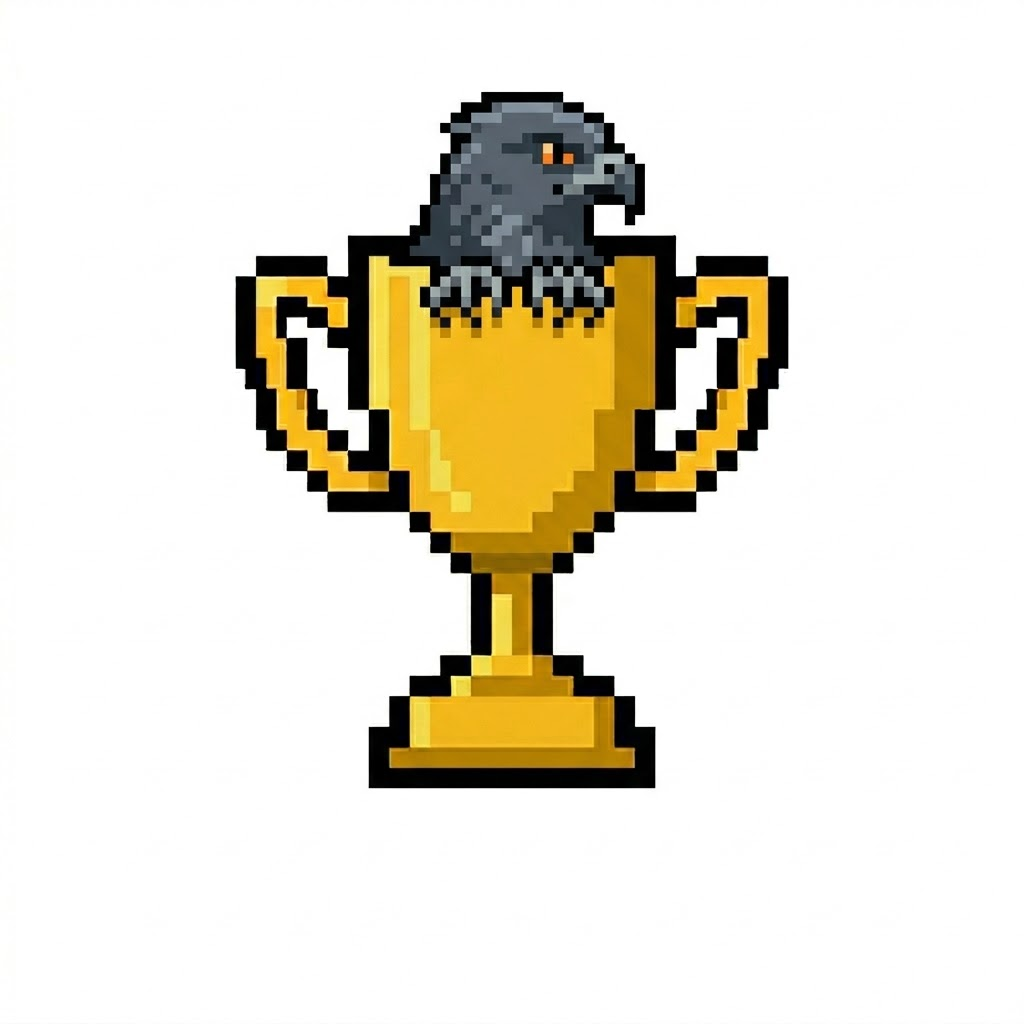
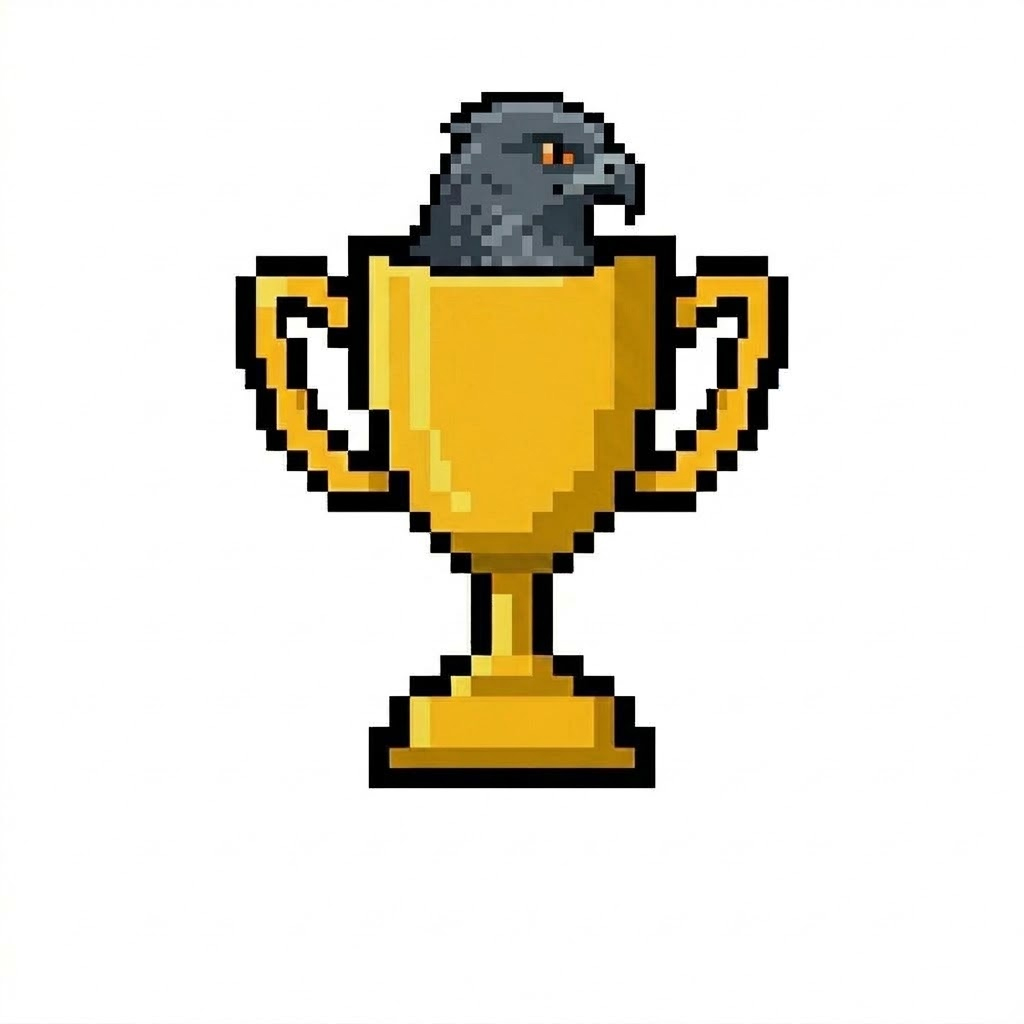
feat(trofeos): Ojos de la noche (primera lechuza o búho) y nueva imagen de Ojo del rapaz

Changed region(s): [[0.4062, 0.25, 0.625, 0.3438]]

diff --git a/index.html b/index.html
@@ -896,6 +896,7 @@ const TROPHIES=[
   {id:'obs_urbano',name:'Observador urbano',cond:'5 aves urbanas',img:'obs_urbano.jpg'},
   {id:'orilla',name:'Orilla del agua',cond:'5 aves acuáticas',img:'orilla.jpg'},
   {id:'rapaz',name:'Ojo del rapaz',cond:'Primera rapaz',img:'rapaz.jpg'},
+  {id:'noche',name:'Ojos de la noche',cond:'Primera lechuza o búho',img:'noche.jpg'},
   {id:'pastizalero',name:'Pastizalero',cond:'5 aves de pastizal',img:'pastizalero.jpg'},
   {id:'en_peligro',name:'En peligro',cond:'Primera especie NT/VU/EN',img:'en_peligro.jpg'},
   {id:'bandada',name:'Bandada',cond:'10 especies vistas',img:'bandada.jpg'},
@@ -914,6 +915,7 @@ function getUnlockedTrophies(){
   if(seenBirds.filter(b=>b.habitat.includes('urbano')).length>=HAB_MIN)u.add('obs_urbano');
   if(seenBirds.filter(b=>['humedal','ribereño','costa','laguna','marino'].some(h=>b.habitat.includes(h))).length>=HAB_MIN)u.add('orilla');
   if(seenBirds.some(b=>['Falconiformes','Accipitriformes'].includes(b.orden)))u.add('rapaz');
+  if(seenBirds.some(b=>b.orden==='Strigiformes'))u.add('noche');
   if(seenBirds.filter(b=>b.habitat.includes('pastizal')).length>=HAB_MIN)u.add('pastizalero');
   if(seenBirds.some(b=>['NT','VU','EN','CR'].includes(b.estado)))u.add('en_peligro');
   if(seenBirds.length>=10)u.add('bandada');

diff --git a/sw.js b/sw.js
@@ -1,4 +1,4 @@
-const CACHE = 'aviario-v128';
+const CACHE = 'aviario-v129';
 const ASSETS = [
   './index.html',
   './manifest.json',
